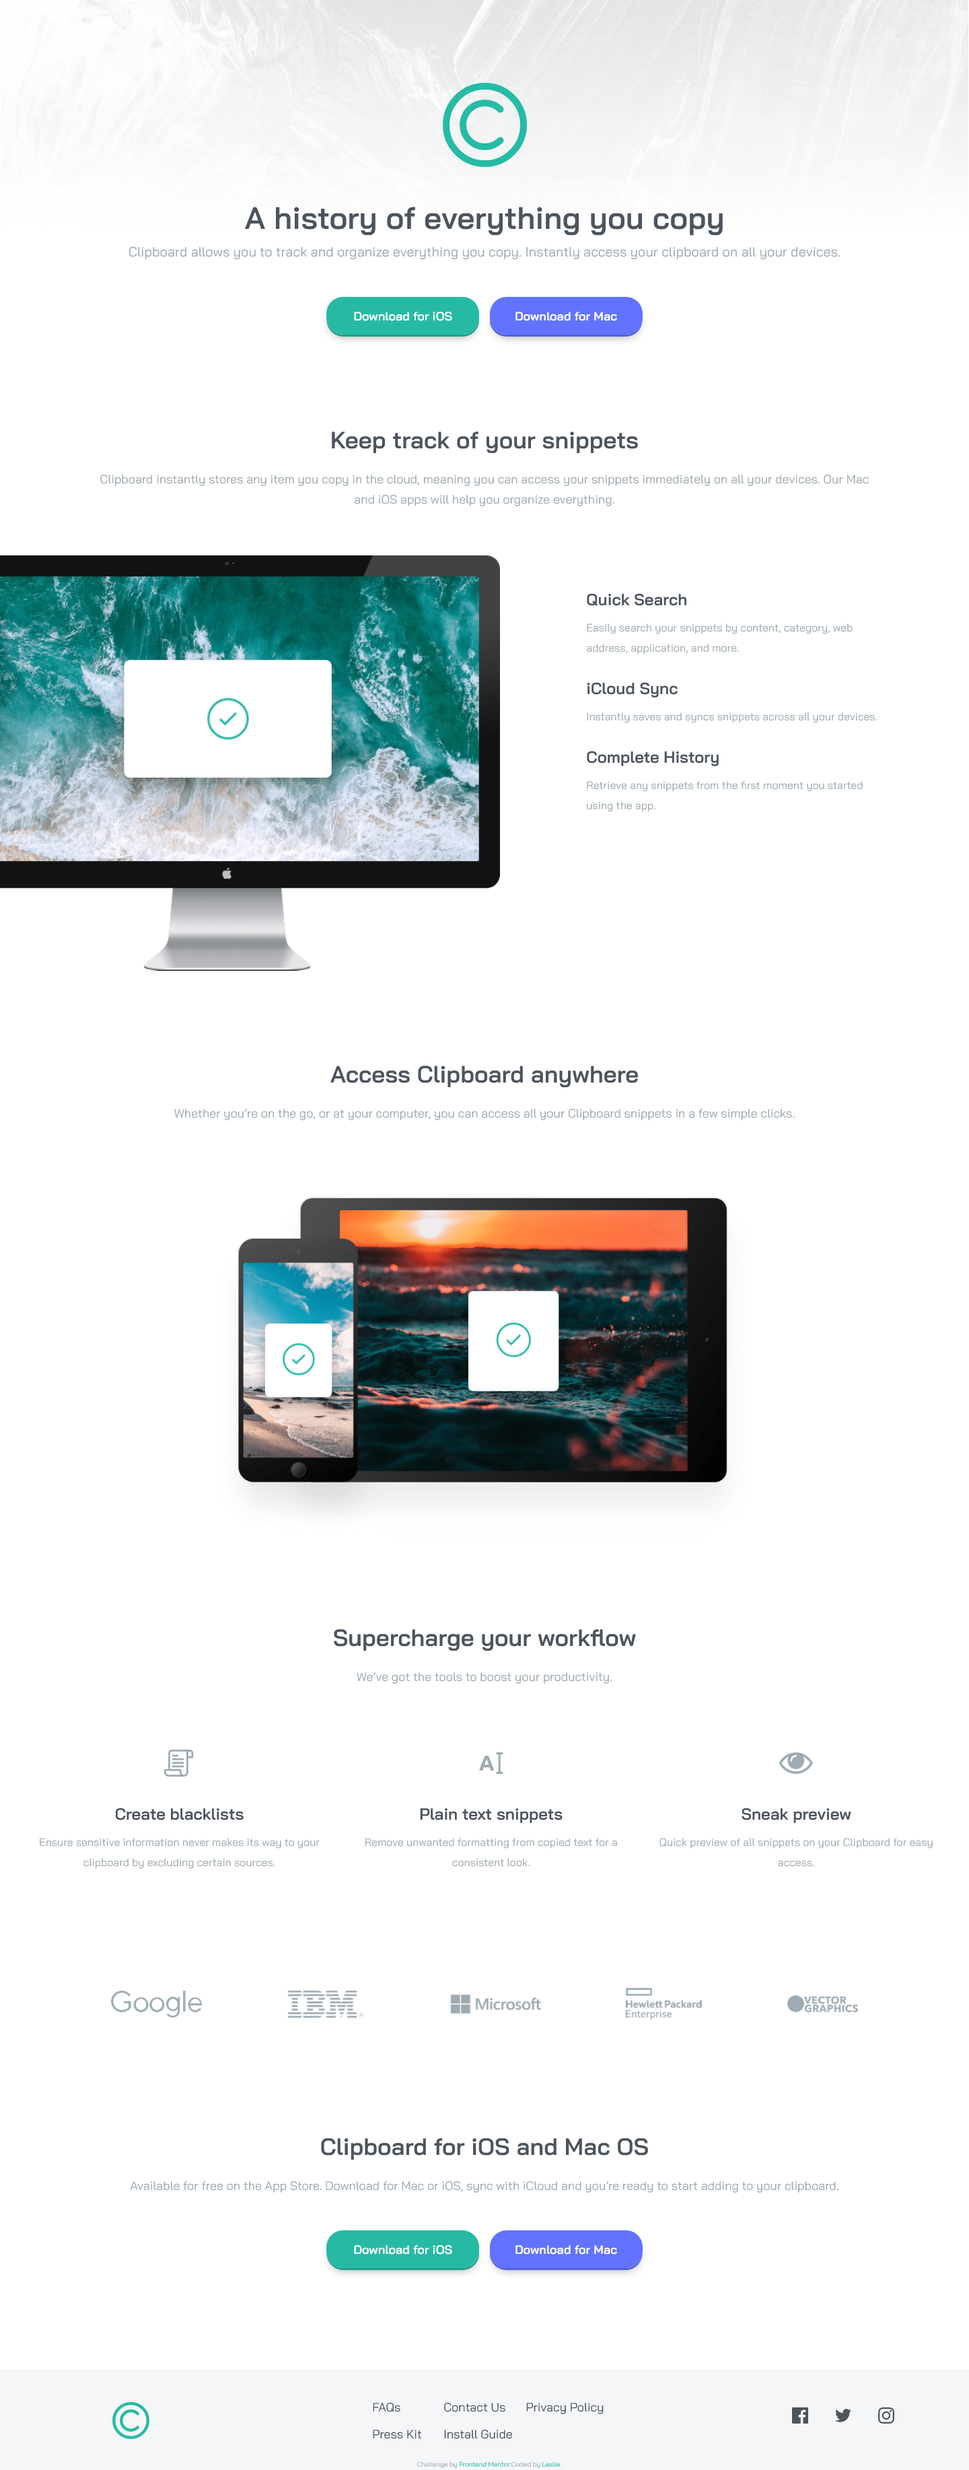
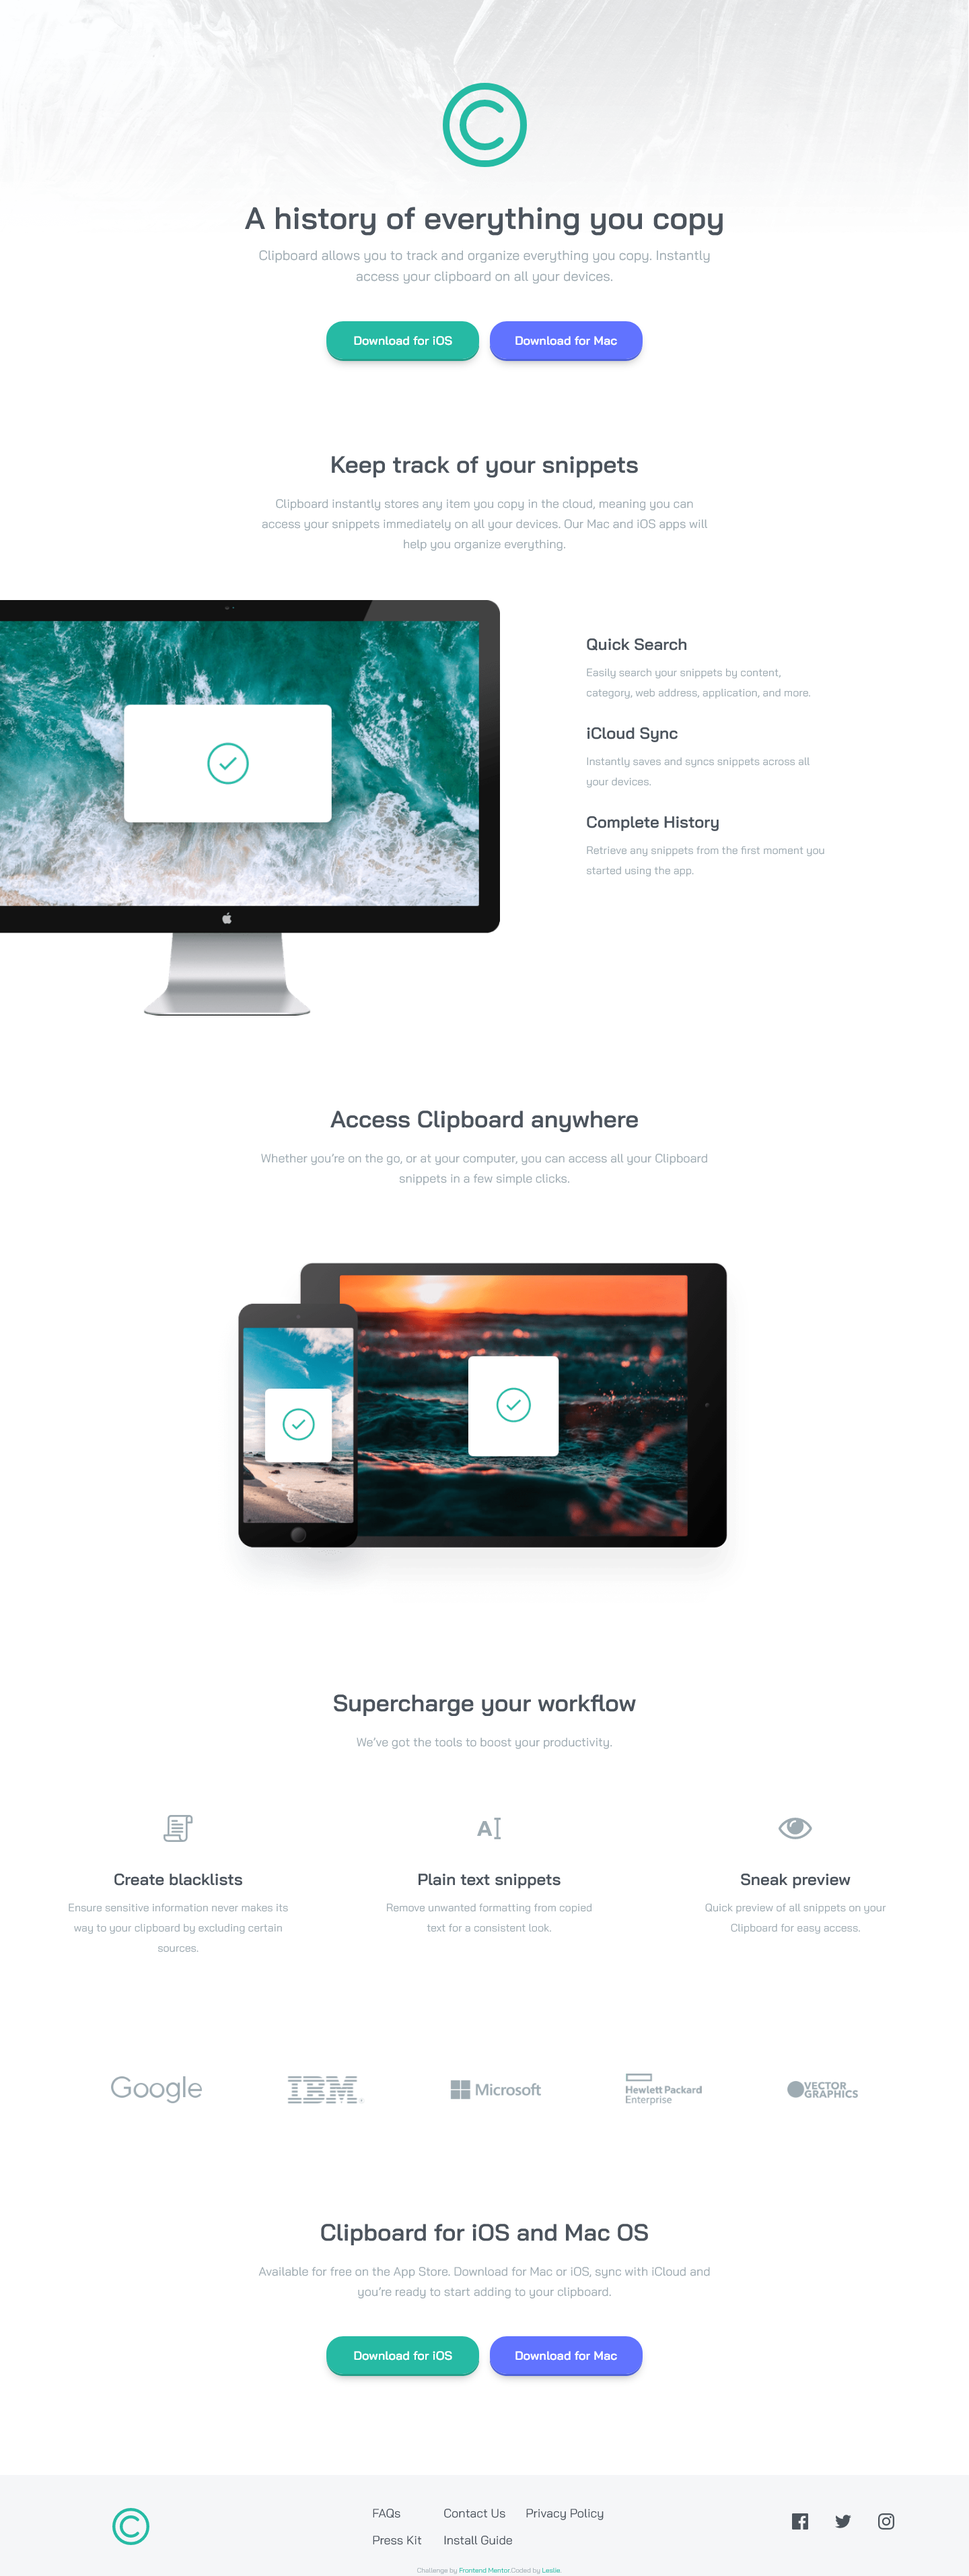
Modified the margins on some of the paragraphs, so it'd look more similar to the desktop design

diff --git a/css/media-queries.css b/css/media-queries.css
@@ -259,8 +259,29 @@
 }
 
 @media only screen and (min-width: 1440px) {
-  .landing-page__second-section-container {
-    grid-template-columns: 61% 33%;
+
+  .landing-page__main-paragraph {
+    margin: 9px 320px 52px;
   }
 
+  .landing-page__secondary-main-paragraph {
+    margin: 0 350px 69px;
+  }
+
+  .landing-page__second-section-container {
+    grid-template-columns: 61% 26%;
+  }
+
+  .landing-page__tertiary-main-paragraph {
+    margin: 0 350px 100px;
+  }
+
+  .landing-page__blacklist-text, .landing-page__snippets-text, .landing-page__preview-text {
+    margin-left: 65px;
+    margin-right: 65px;
+  }
+
+  .landing-page__quinary-main-paragraph {
+    margin: 0 350px 52px;
+  }
 }
